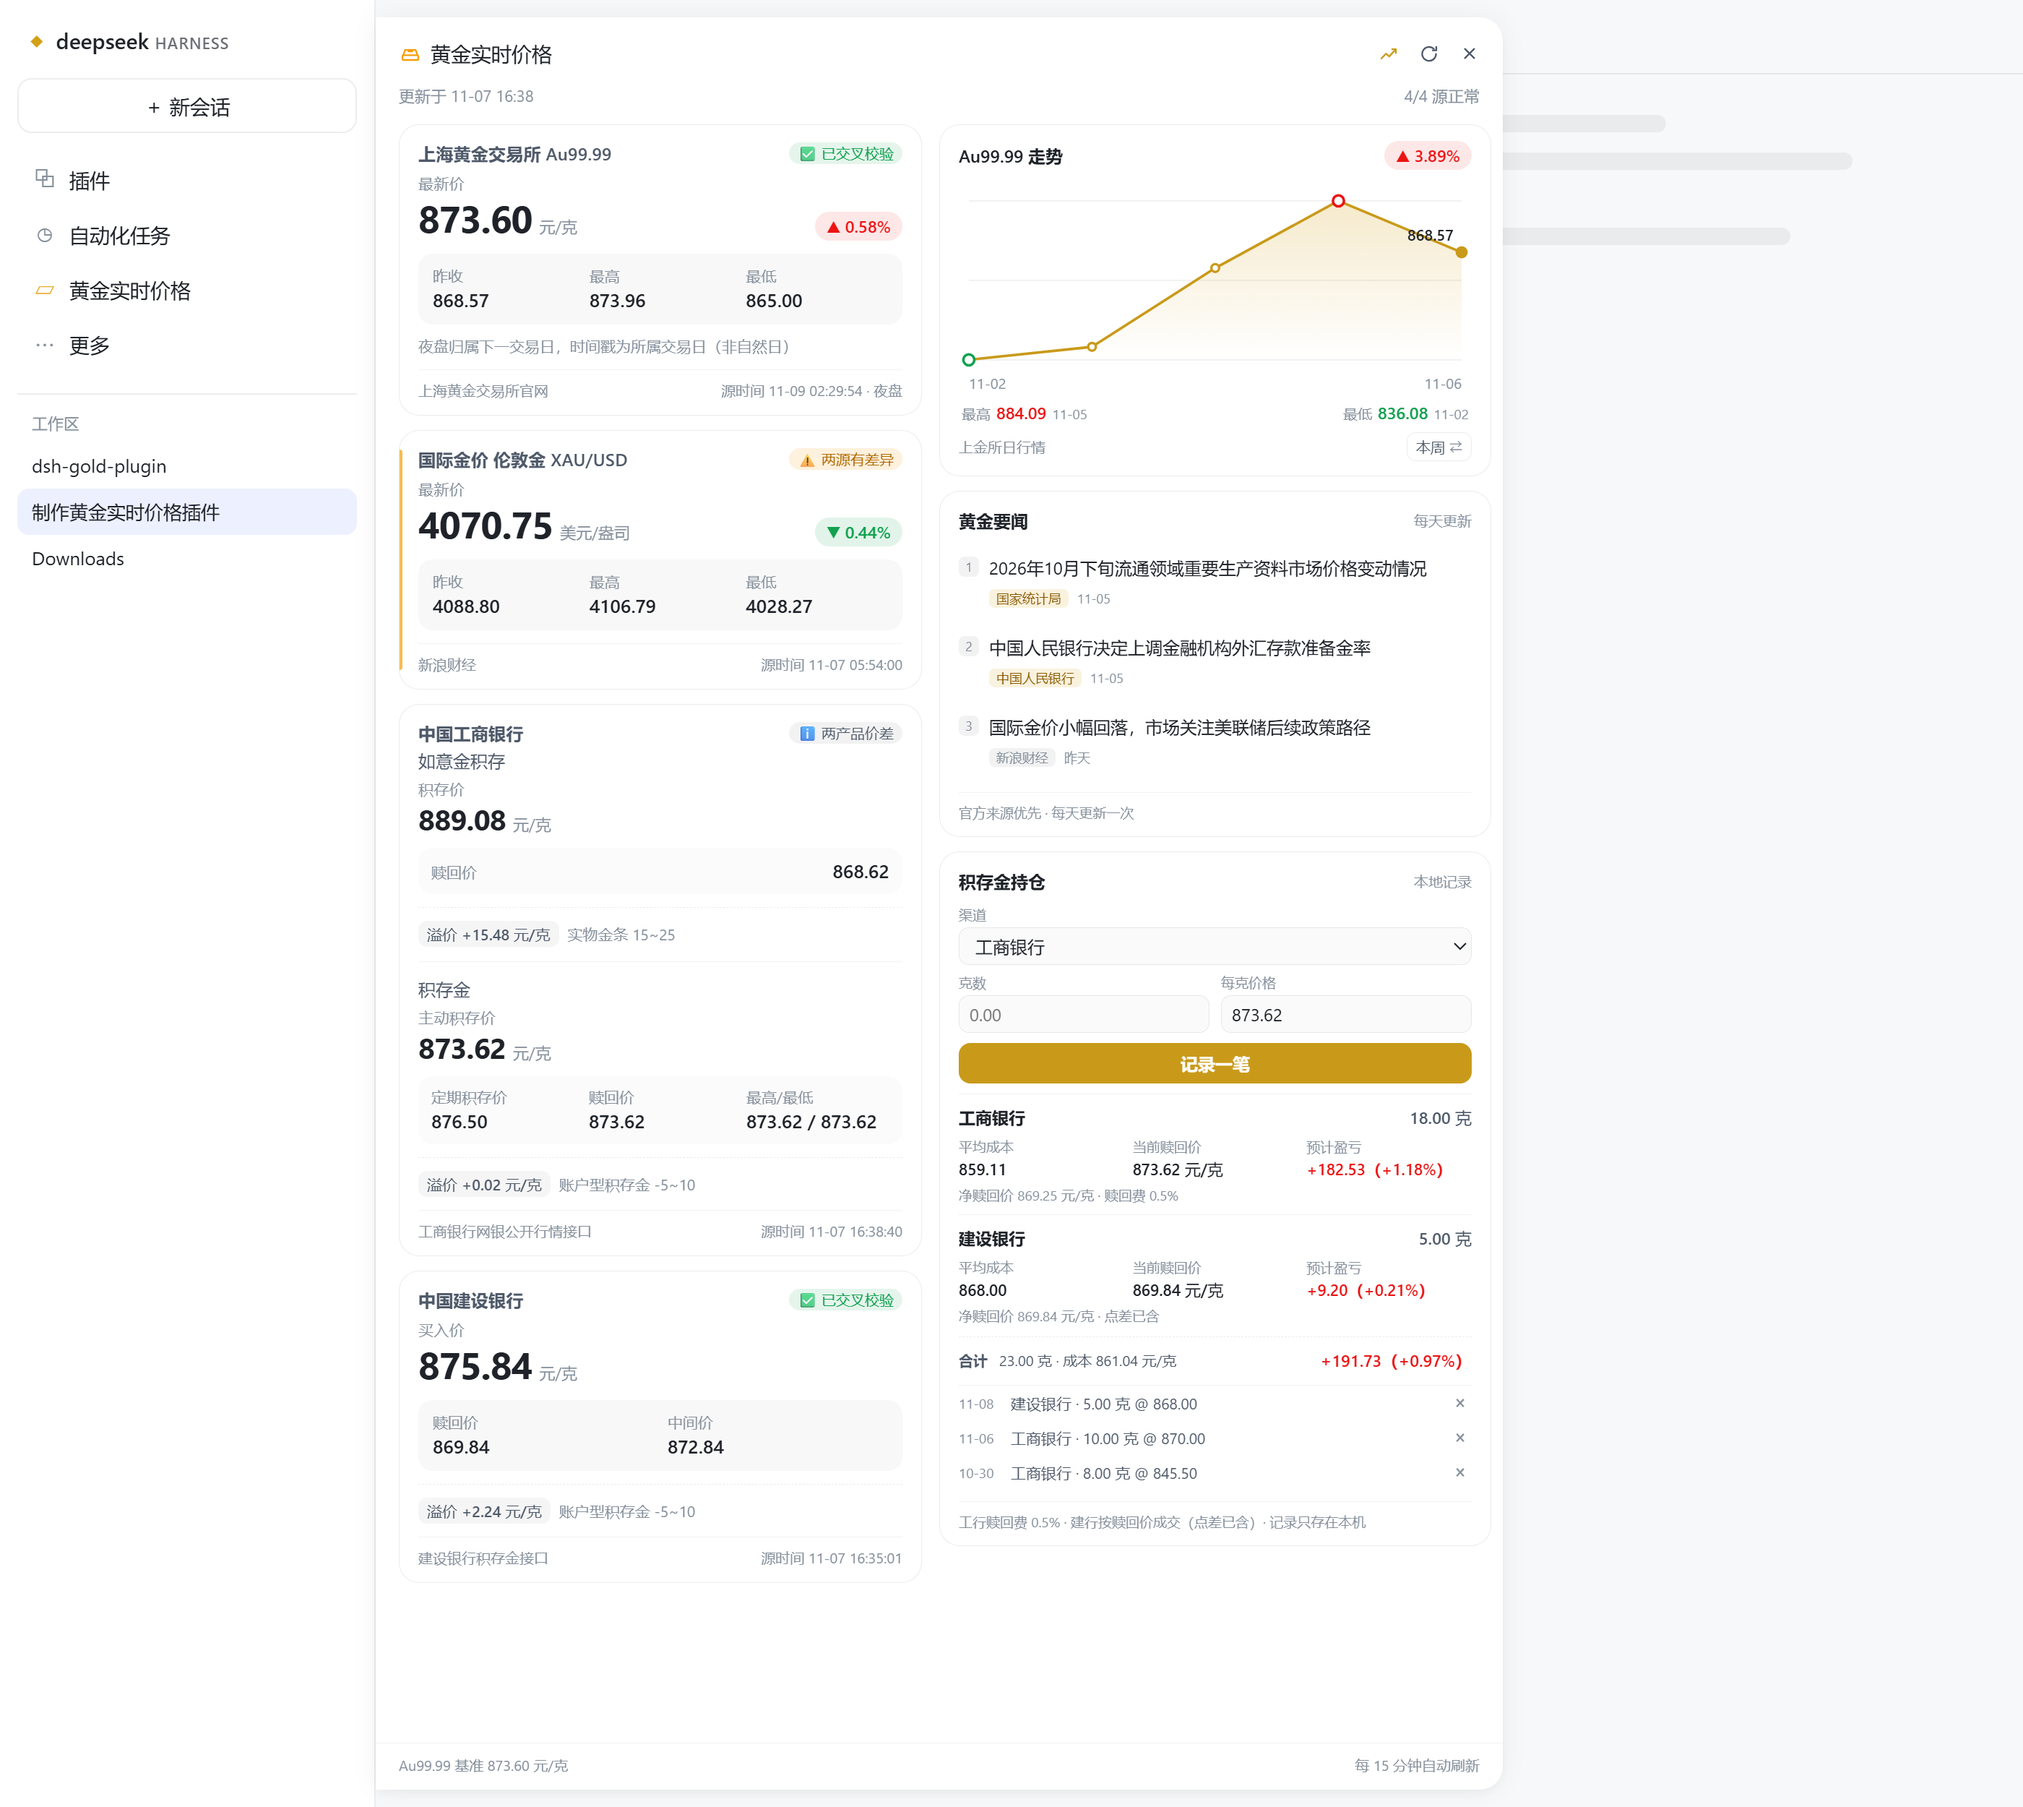
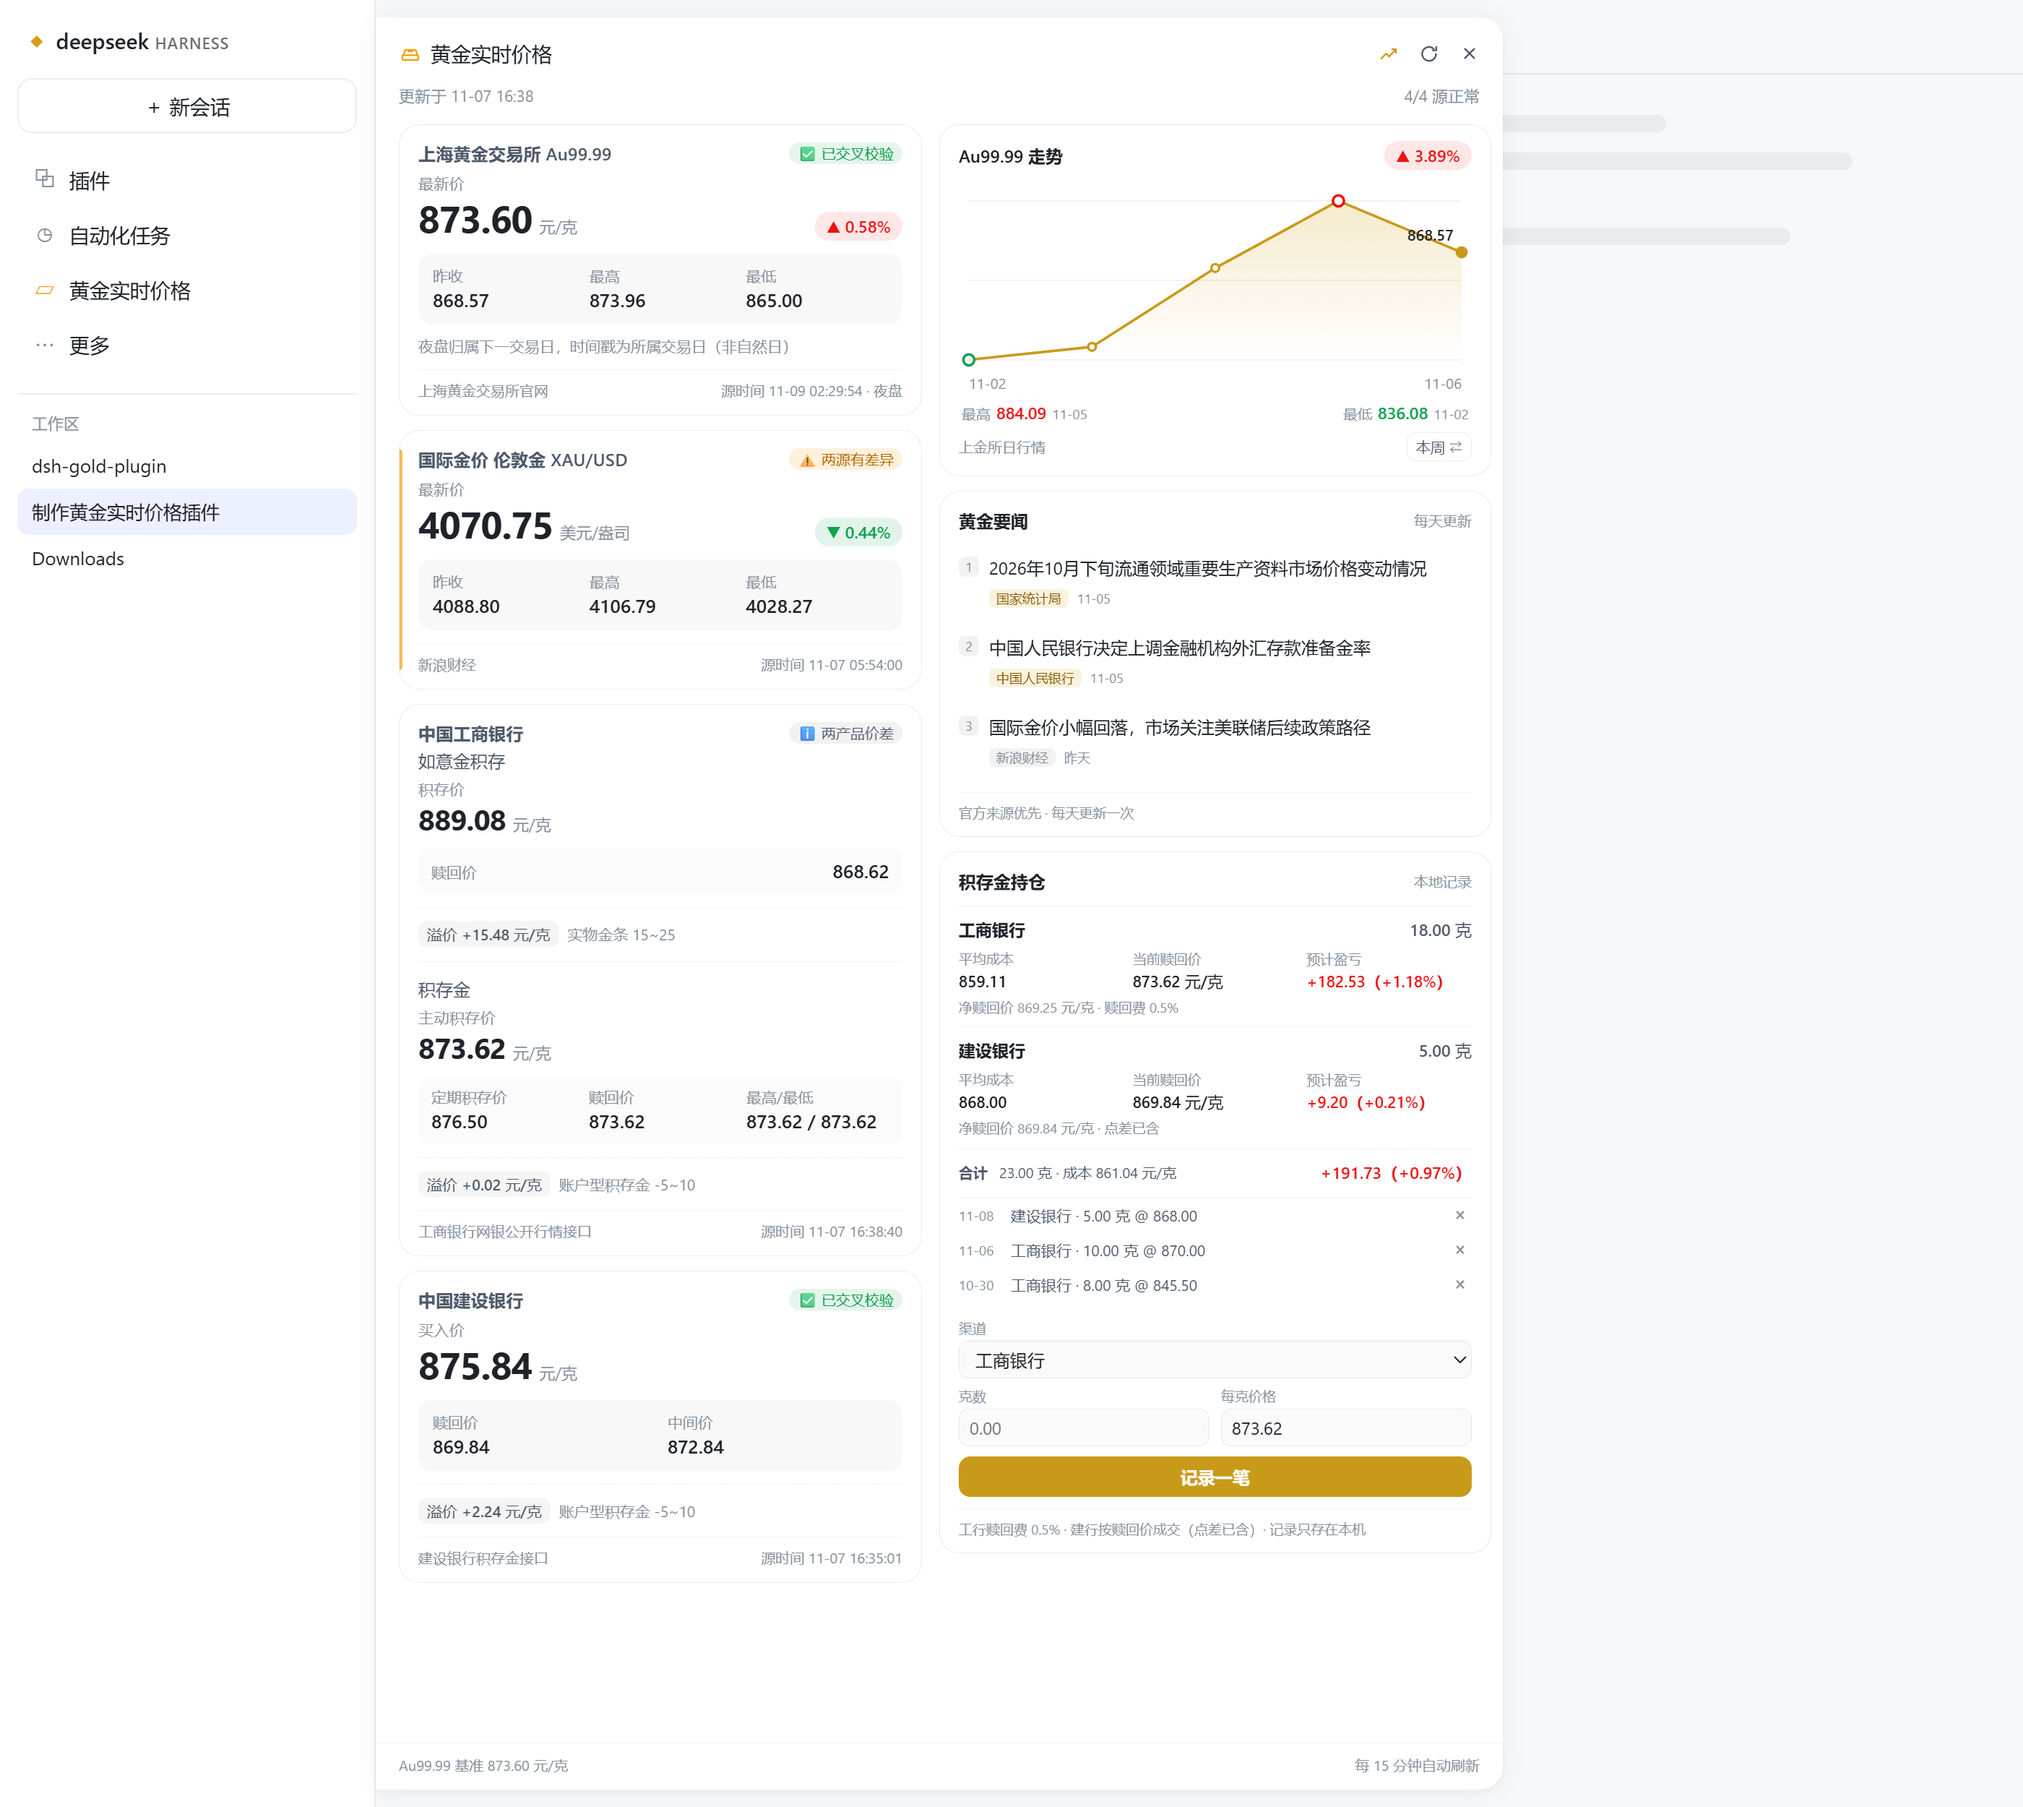
feat(ui): 持仓汇总前置、录入表单下移

Changed region(s): [[0.4661, 0.4992, 0.7457, 0.8736], [0.6525, 0.6864, 0.6836, 0.7176]]

diff --git a/assets/panel.js b/assets/panel.js
@@ -31,7 +31,7 @@
   // 常量
   // ---------------------------------------------------------------------------
 
-  var VERSION = '3.8.1'
+  var VERSION = '3.8.2'
   var API = '/dsh-gold/api/quotes'
   var EXTRAS_API = '/dsh-gold/api/extras'
   var MOUNTED_API = '/dsh-gold/api/mounted'
@@ -1193,6 +1193,10 @@
       '<span class="dsh-gold-side-title">积存金持仓</span>' +
       '<span class="dsh-gold-side-meta">本地记录</span>' +
       '</div>' +
+      (channelsHtml || '<div class="dsh-gold-pos-empty">还没有积存记录，填入克数和成交价后点「记录一笔」</div>') +
+      totalHtml +
+      positionRecordsHtml() +
+      '<div class="dsh-gold-pos-err">' + esc(state.posError || '') + '</div>' +
       '<div class="dsh-gold-pos-form">' +
       '<label class="dsh-gold-pos-field"><span>渠道</span>' +
       '<select id="dsh-gold-pos-channel" data-pos="channel">' + options + '</select></label>' +
@@ -1202,10 +1206,6 @@
       '<input id="dsh-gold-pos-price" data-pos="price" type="number" inputmode="decimal" step="0.01" min="0.01" placeholder="' + esc(buyInfo.ok ? fmtNum(buyInfo.price) : '0.00') + '" value="' + esc(prefill) + '"></label>' +
       '<button type="button" class="dsh-gold-pos-add" data-dsh-gold-action="position-add">记录一笔</button>' +
       '</div>' +
-      '<div class="dsh-gold-pos-err">' + esc(state.posError || '') + '</div>' +
-      (channelsHtml || '<div class="dsh-gold-pos-empty">还没有积存记录，填入克数和成交价后点「记录一笔」</div>') +
-      totalHtml +
-      positionRecordsHtml() +
       '<div class="dsh-gold-pos-foot">工行赎回费 0.5% · 建行按赎回价成交（点差已含）· 记录只存在本机</div>' +
       '</section>'
     )
@@ -2646,6 +2646,7 @@
 
   start()
 })()
+
 
 
 

diff --git a/assets/panel.css b/assets/panel.css
@@ -1201,7 +1201,7 @@
   display: grid;
   grid-template-columns: 1fr 1fr;
   gap: 6px 8px;
-  margin-bottom: 6px;
+  margin: 12px 0 0;
 }
 
 .dsh-gold-pos-field {
@@ -1263,6 +1263,7 @@
 }
 
 .dsh-gold-pos-err {
+  margin-top: 6px;
   color: var(--dsw-alias-state-error-primary, #ec1313);
   font-size: 10px;
   line-height: 14px;
@@ -1499,4 +1500,7 @@
     animation: none;
   }
 }
+
+
+
 
